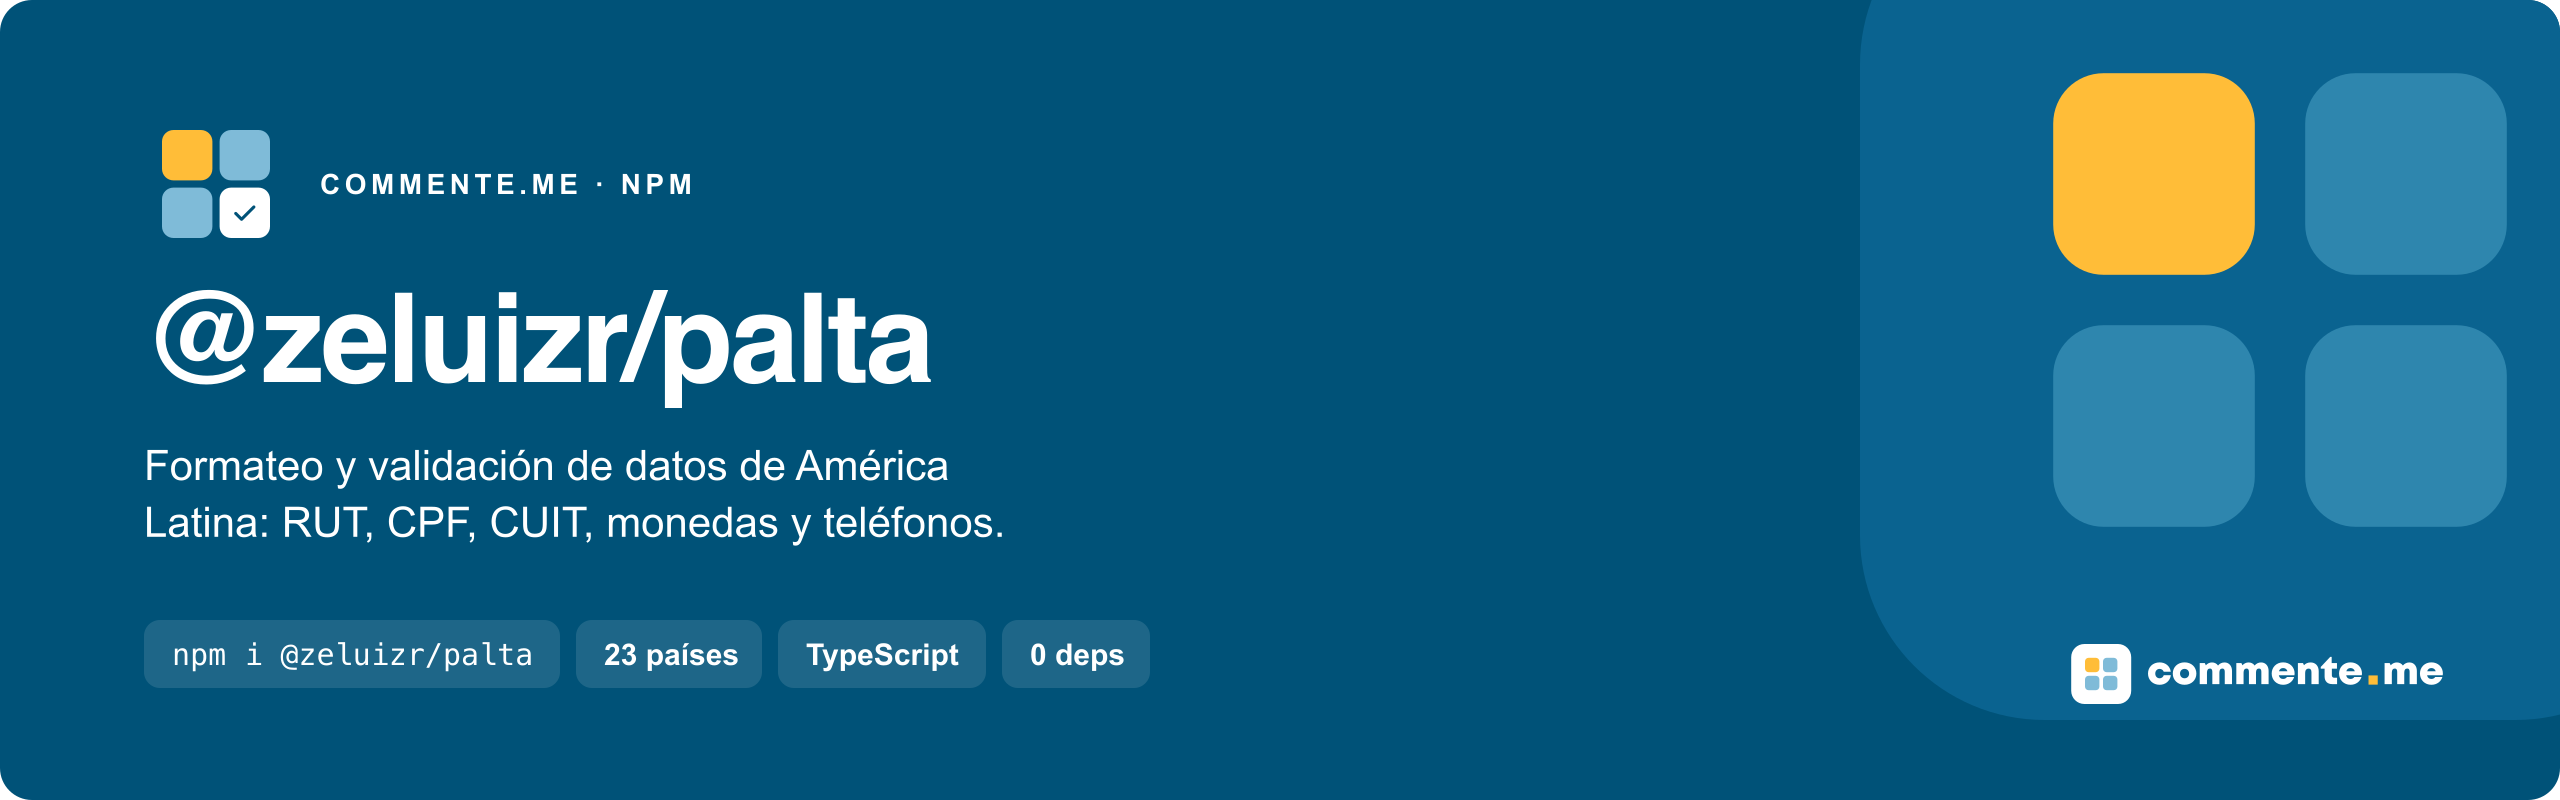
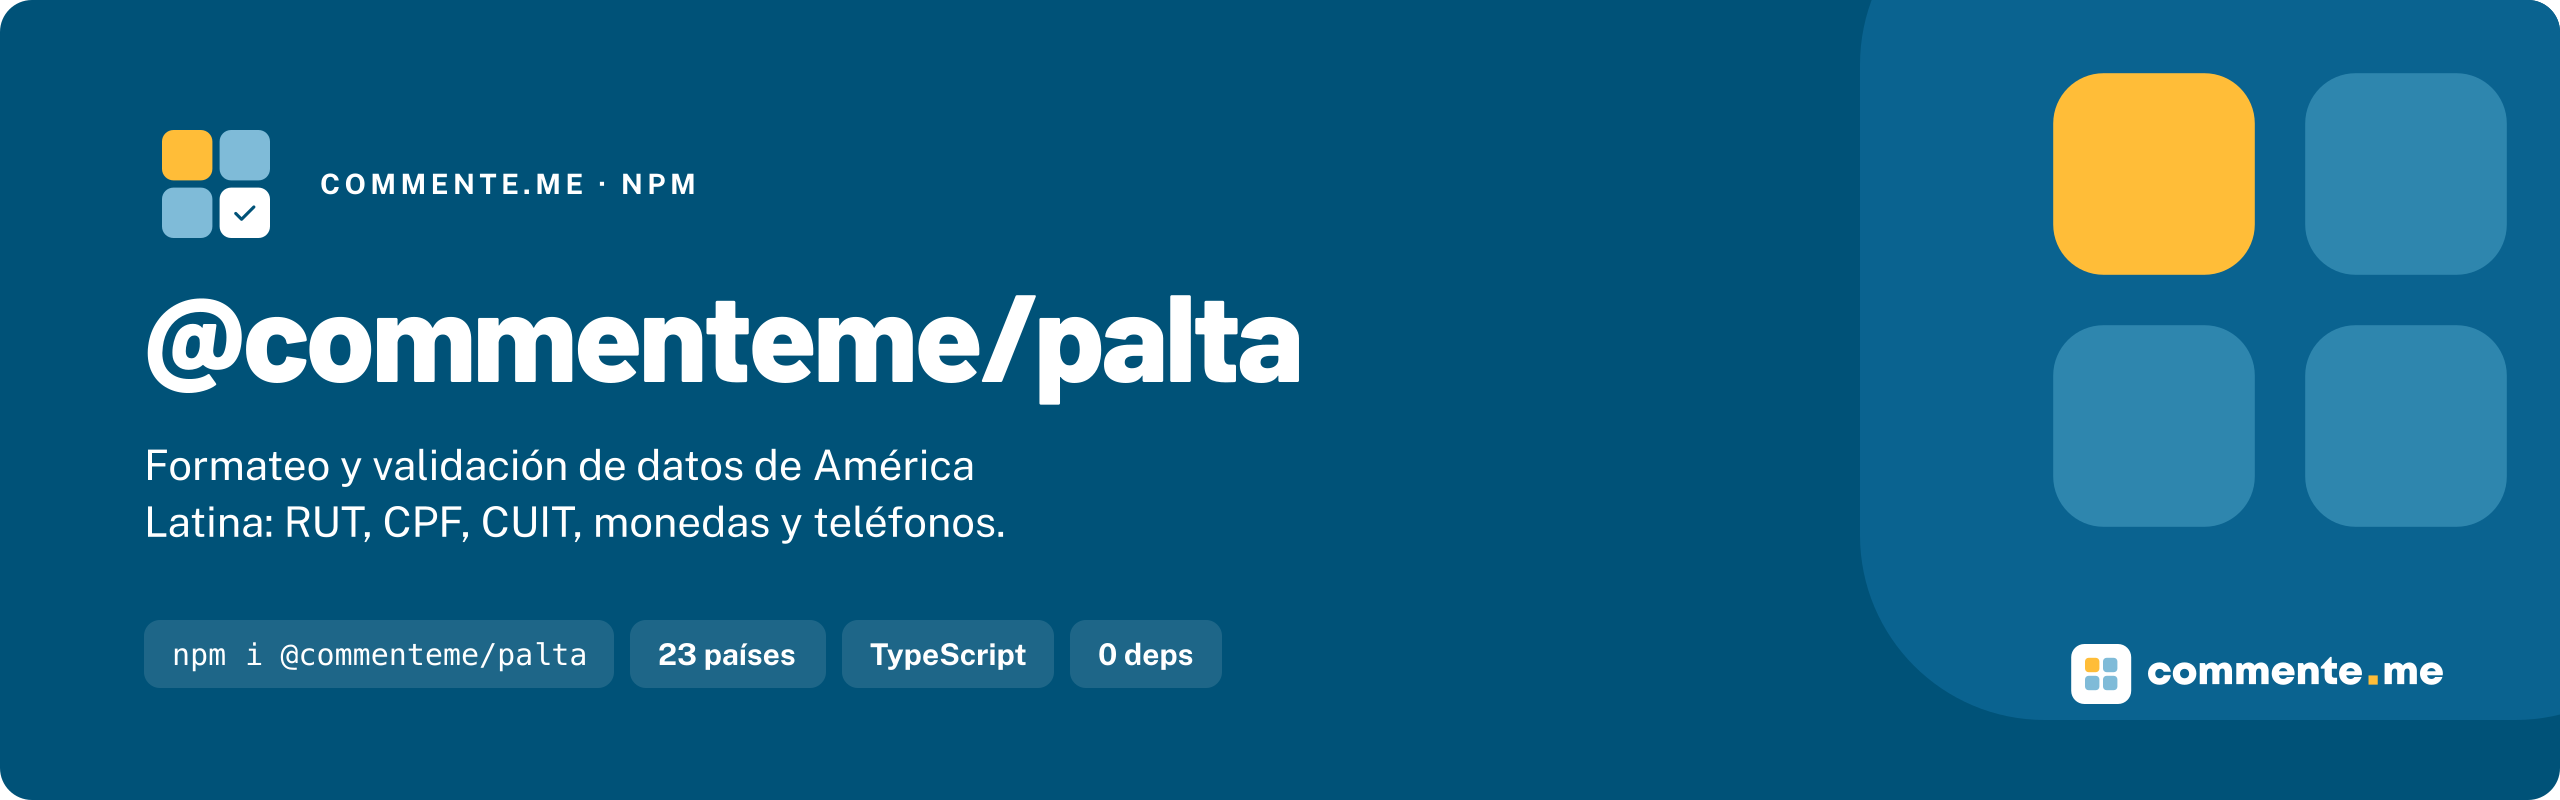
docs: header e README com o nome @commenteme/palta
O banner e o social preview ainda diziam @zeluizr/palta e npm i @zeluizr/palta.
Regenera os dois com o banner.py da marca, corrige a versão citada (1.3.1 → 1.4.0),
descreve quando a CI roda de fato e troca o rodapé para hablecon@commente.me,
porque hola@ saiu no Atacama.

diff --git a/README.md b/README.md
@@ -164,7 +164,7 @@ tienda vende en un solo país, importa ese subpath (`@commenteme/palta/br`) y `f
 
 ### Referencia
 
-Versión del código: **1.3.1**, según [package.json](package.json). El inventario de
+Versión del código: **1.4.0**, según [package.json](package.json). El inventario de
 países está en [src/index.ts](src/index.ts); los contratos de los módulos están en
 [src/types.ts](src/types.ts) y los cambios de API en [CHANGELOG.md](CHANGELOG.md).
 
@@ -270,7 +270,7 @@ npm run build         # tsup: ESM + CJS + .d.ts + IIFE (palta.global.js)
 ```
 
 Los tests importan directo de `src/`, así que corren sin haber hecho `build`. La CI
-(`.github/workflows/ci.yml`) corre lint, cobertura y build en cada push y PR contra `main`.
+(`.github/workflows/ci.yml`) corre lint, cobertura y build en cada push a `dev` y `main` y en cada PR contra `main`.
 
 Para agregar un país nuevo hay que tocar cinco lugares, en este orden:
 
@@ -290,4 +290,4 @@ Cero dependencias en runtime, TypeScript estricto sin `any`, funciones puras que
 
 ---
 
-Hecho por [commente.me](https://commente.me) · hola@commente.me
+Hecho por [commente.me](https://www.commente.me) · hablecon@commente.me
